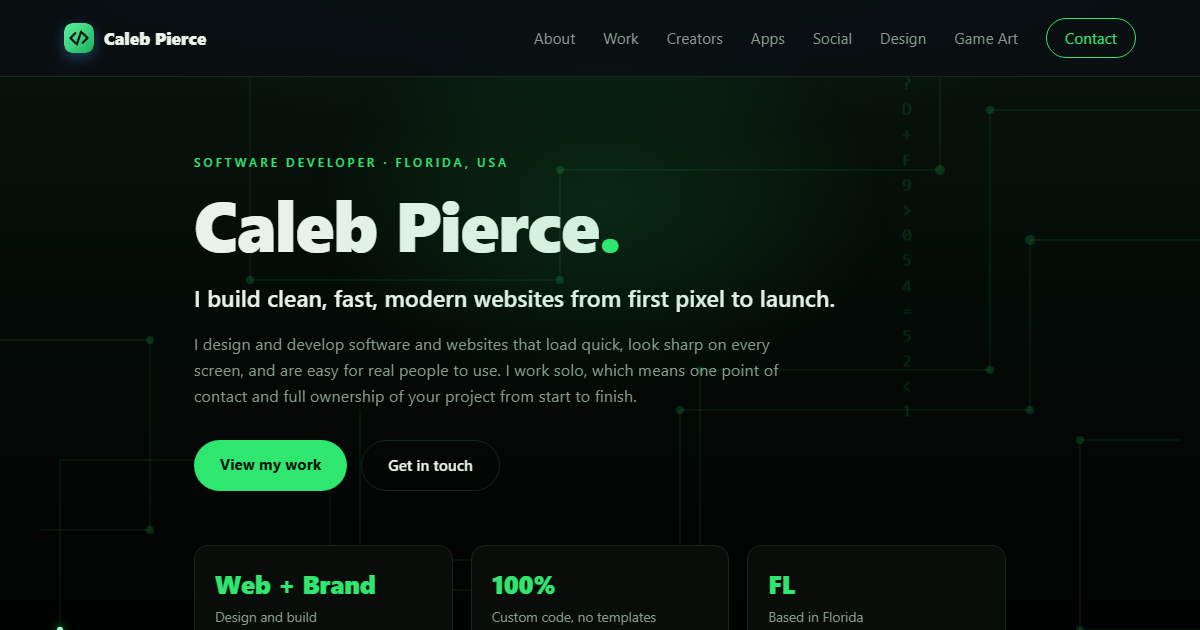
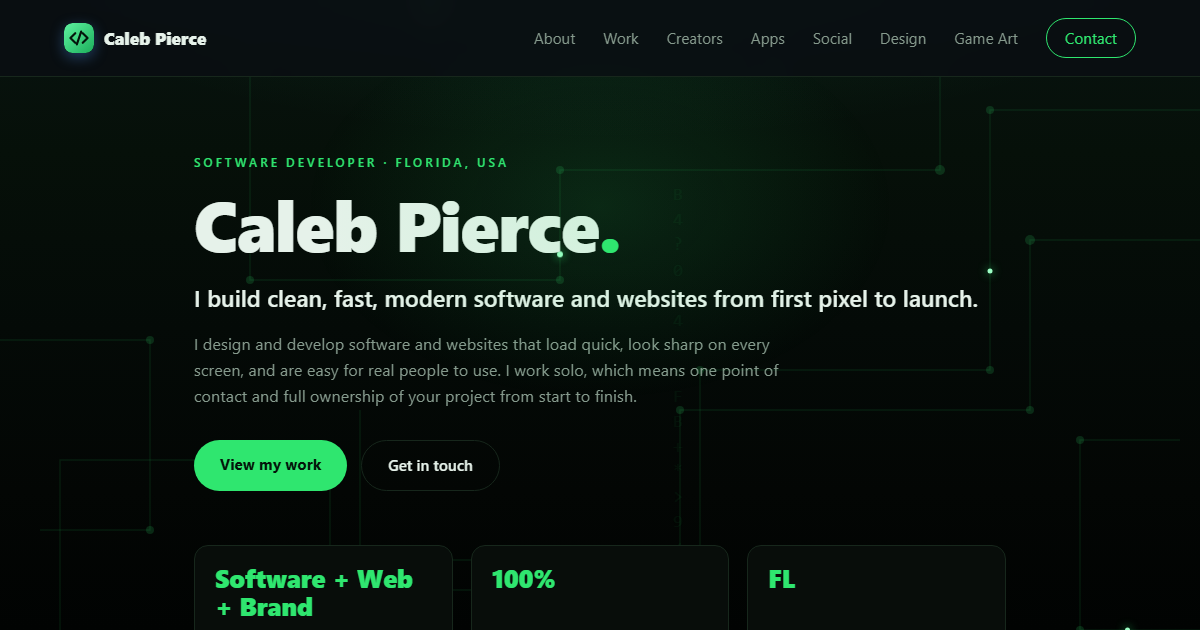
Hero: software in tagline and stats, aligned stat labels, refreshed OG

diff --git a/docs/index.html b/docs/index.html
@@ -90,7 +90,7 @@
       <p class="eyebrow">Software Developer &middot; Florida, USA</p>
       <h1>Caleb Pierce<span class="accent">.</span></h1>
       <p class="hero-tagline">
-        I build clean, fast, modern websites from first pixel to launch.
+        I build clean, fast, modern software and websites from first pixel to launch.
       </p>
       <p class="hero-body">
         I design and develop software and websites that load quick, look sharp on every
@@ -102,7 +102,7 @@
         <a href="#contact" class="btn btn-ghost">Get in touch</a>
       </div>
       <ul class="hero-stats">
-        <li><strong>Web + Brand</strong><span>Design and build</span></li>
+        <li><strong>Software + Web + Brand</strong><span>Design and build</span></li>
         <li><strong>100%</strong><span>Custom code, no templates</span></li>
         <li><strong>FL</strong><span>Based in Florida</span></li>
       </ul>

diff --git a/docs/styles.css b/docs/styles.css
@@ -300,6 +300,8 @@ body {
   font-size: 1.55rem;
   font-weight: 800;
   color: var(--accent);
+  line-height: 1.15;
+  min-height: 2.3em;
 }
 
 .hero-stats span {
